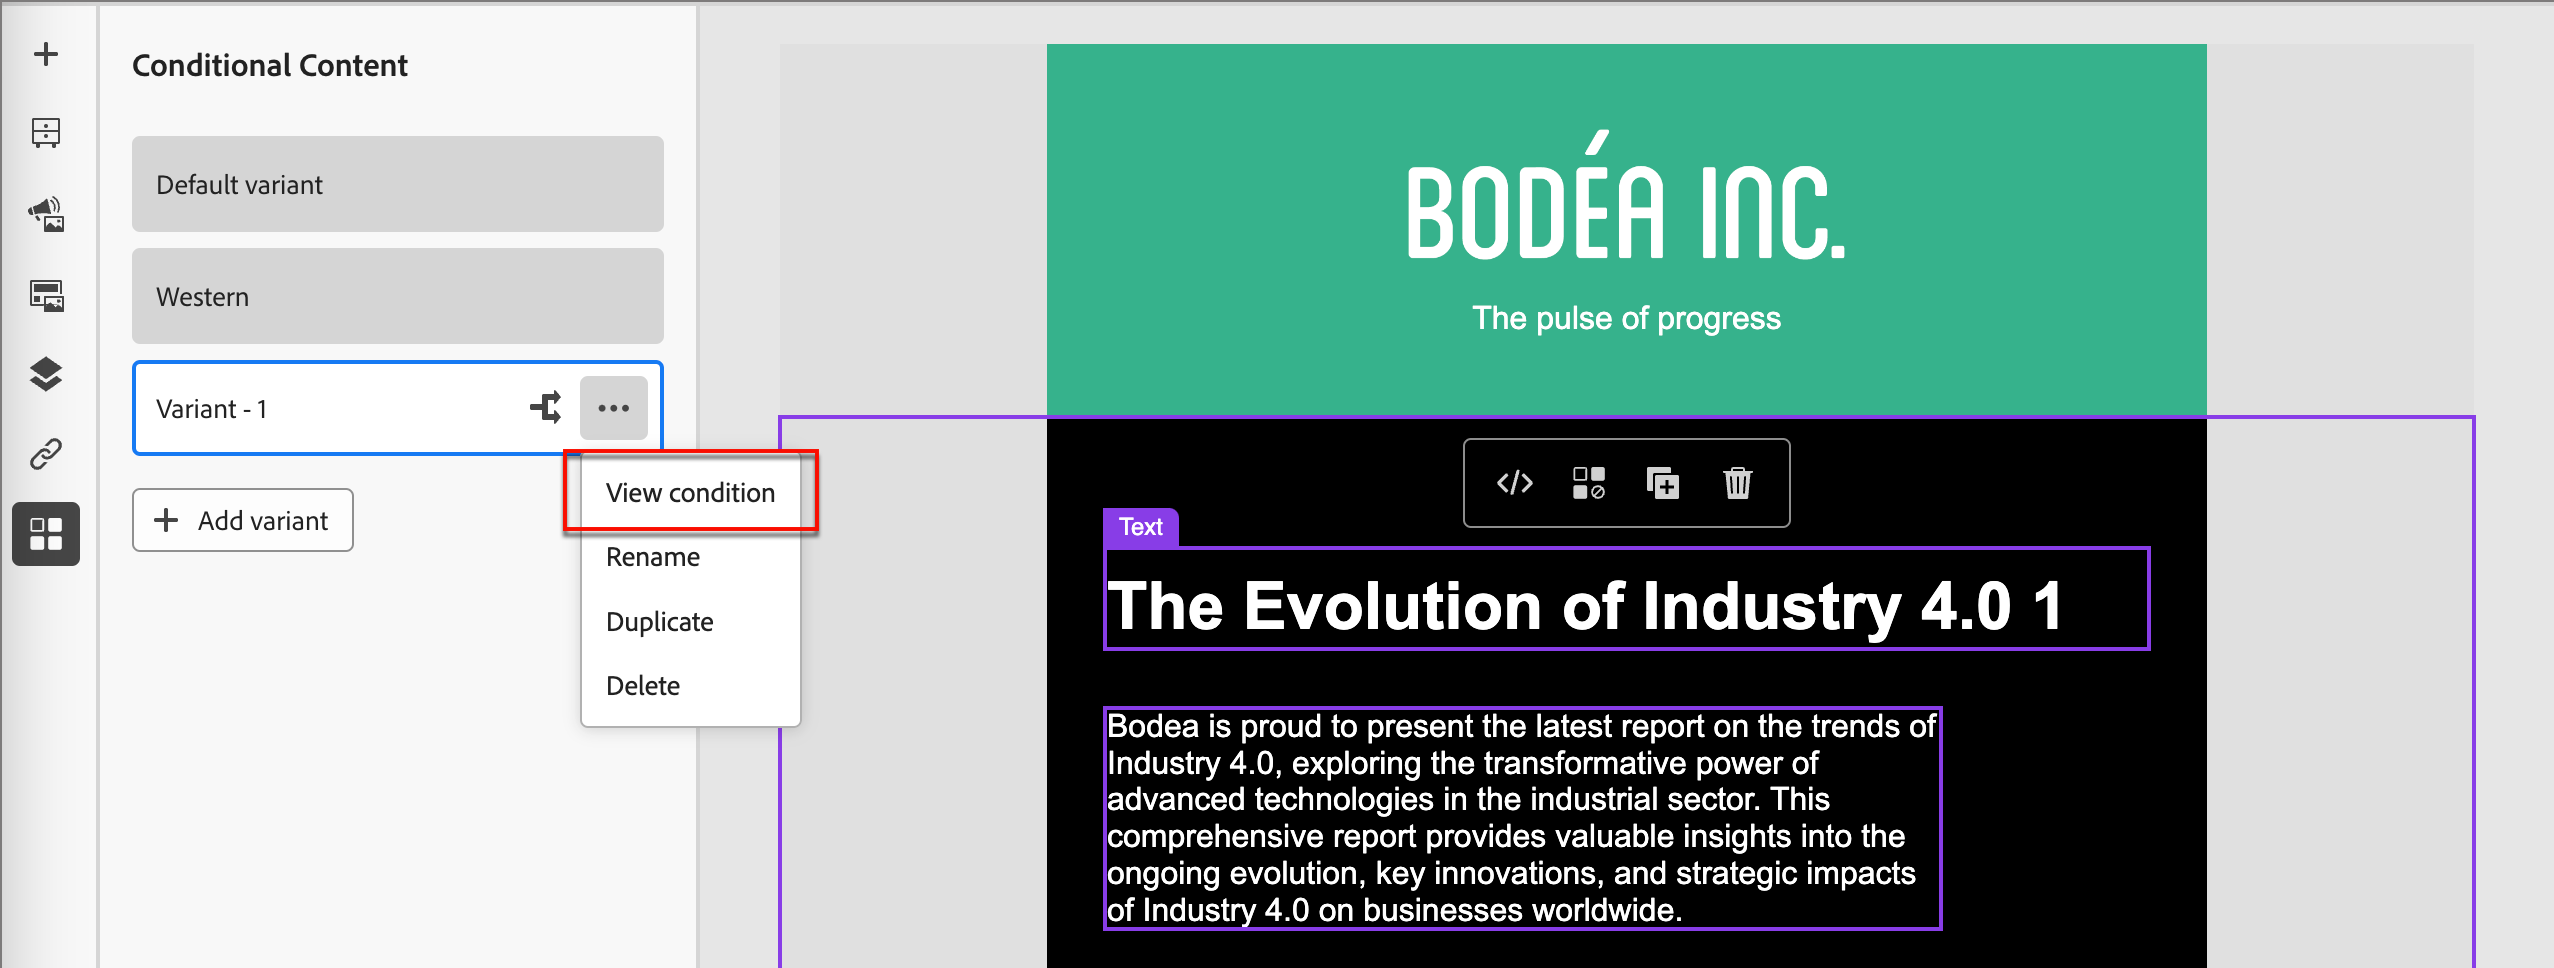
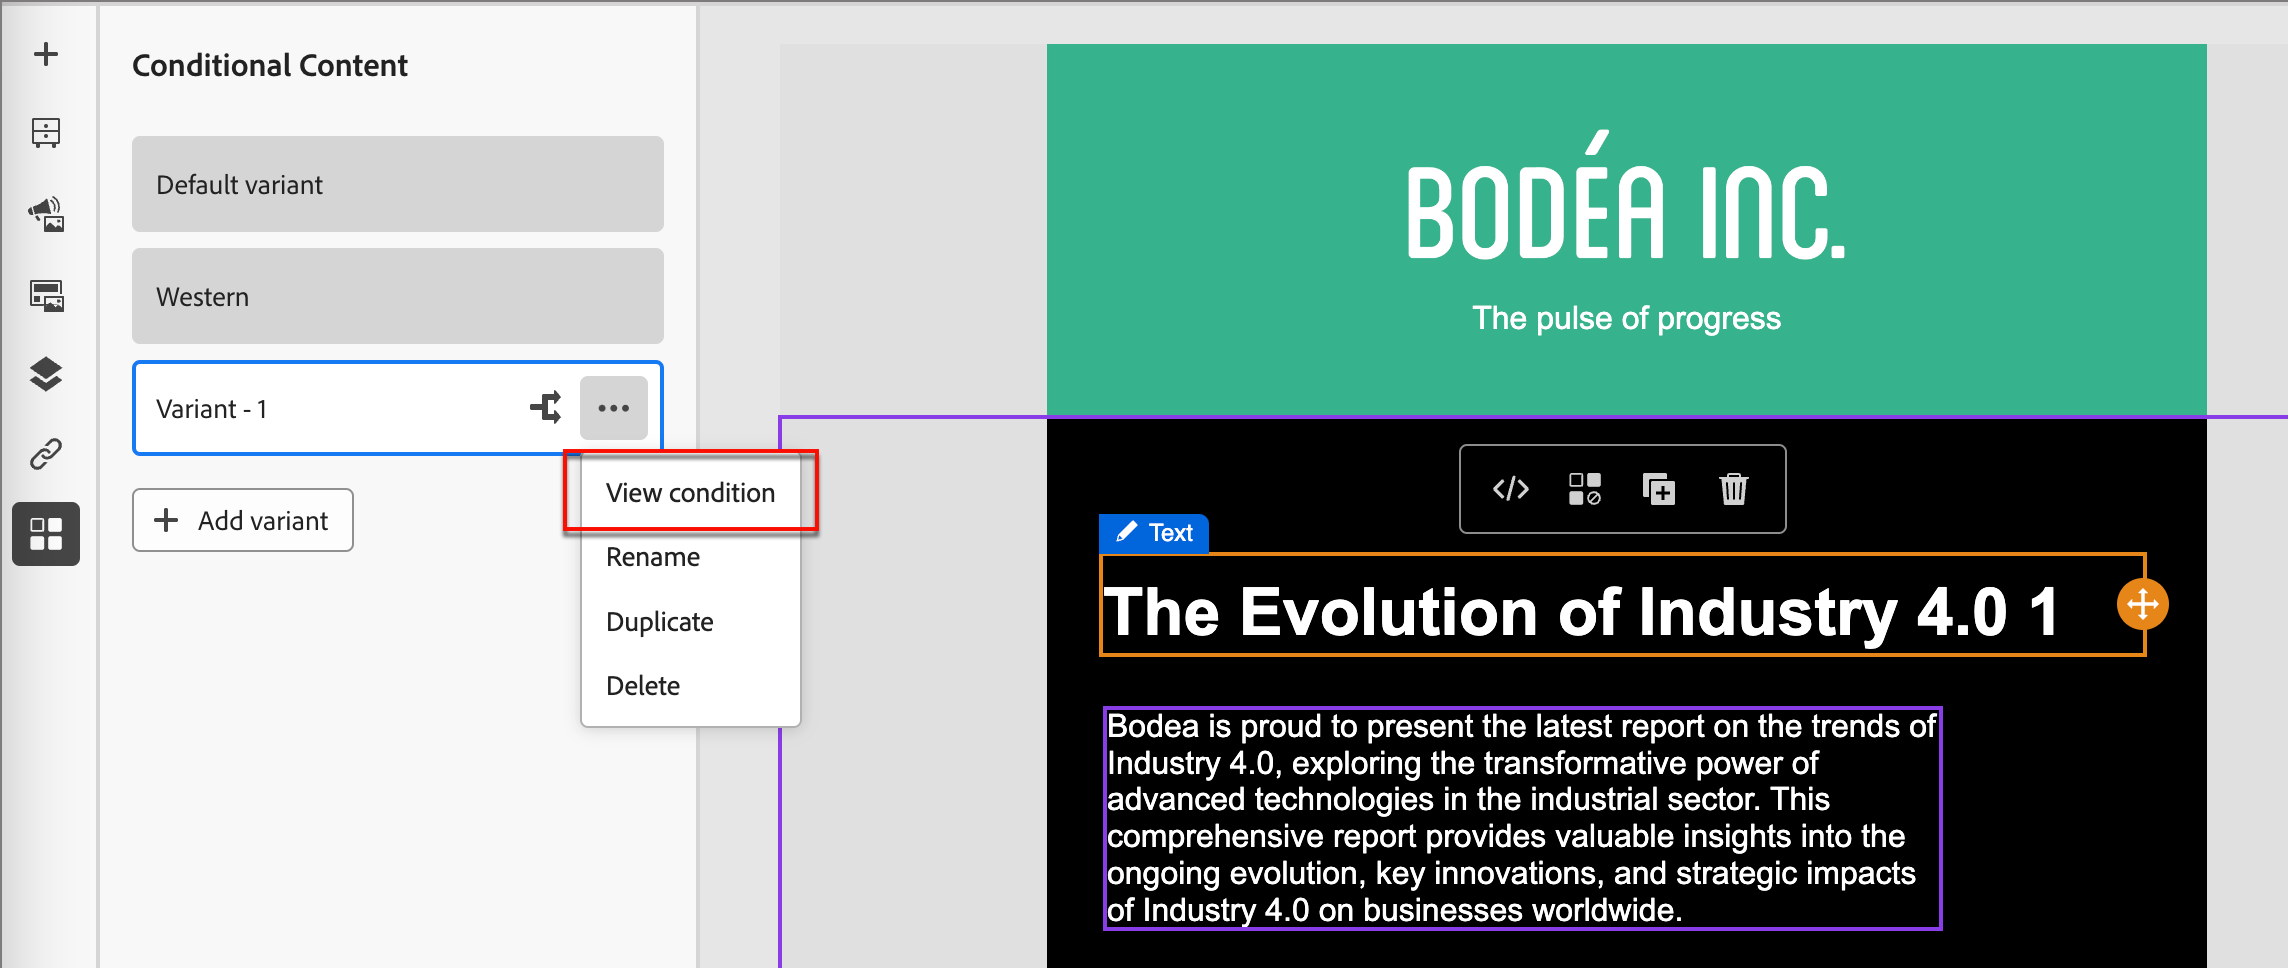
SPHR-9821, Adjust images and minor edits

diff --git a/help/user/content/conditional-content.md b/help/user/content/conditional-content.md
@@ -1,13 +1,13 @@
 ---
 title: Conditional content
-description: Learn how to create content variations and apply conditional rules when authoring email content.
+description: Learn how to create content variations and apply conditional rules when authoring email content for account journeys.
 feature: Email Authoring, Content
 ---
 # Conditional content
 
 Conditional content allows you to adapt the email content based on conditional rules. These rules are defined using profile attributes or contextual events. You can create conditional rules in the rule builder, and you can store them for reuse across your account journeys.
 
-To add conditional content into your email messages, Adobe Journey Optimizer allows you to apply conditional rules that are stored in the _Conditions_ library. Apply conditional rules within the email designer as you author an email within an account journey.
+To add conditional content into your email messages, Adobe Journey Optimizer allows you to apply conditional rules that are stored in the _Conditions_ library. Apply conditional rules within the email designer as you [author an email within an account journey](./email-authoring.md).
 
 ## Add conditional content to emails {#email-content}
 
@@ -21,15 +21,13 @@ To add conditional content into your email messages, Adobe Journey Optimizer all
 >title="Conditional content"
 >abstract="Use a conditional rule saved into the library or create a new one."
 
-As you author an email for your account journey, use conditional rules to define multiple variants for a content component.
-
-To create content component variants in the email designer:
+As you author an email for your account journey in the email designer, use conditional rules to define multiple variants for a content component.
 
 1. Select a content component and click the **[!UICONTROL Enable conditional content]** icon in the component toolbar.
 
     The component is outlined in orange to indicate that it is activated as a conditional component. The **[!UICONTROL Conditional Content]** pane displays on the left with the _Default variant_ and _Variant - 1.
 
-    ![Enable conditional content for the text component](./assets/conditions-enable.png){width="800" zoomable="yes"}
+    ![Enable conditional content for the text component](./assets/conditions-enable.png){width="700" zoomable="yes"}
     
     The original content you selected and activated is the default and applies when none of the conditional rules are not satisfied for any of the variants that you define.
     
@@ -37,7 +35,7 @@ To create content component variants in the email designer:
 
 1. Hover over the first variant (_Variant - 1_) and click the _Select condition_ icon ( ![Condition icon](../assets/do-not-localize/icon-select-condition.svg) ).
 
-   ![Select condition for variant](./assets/conditions-variant-select.png){width="800" zoomable="yes"}
+   ![Select condition for variant](./assets/conditions-variant-select.png){width="700" zoomable="yes"}
 
    The _[!UICONTROL Select condition]_ dialog opens and displays the conditions library.
 
@@ -78,7 +76,7 @@ To create content component variants in the email designer:
     >[!IMPORTANT]
     >
     >Conditional content is evaluated against associated rules in the order in which the variants are listed. The first variant with a condition that evaluates as true is used for the component.
-    ><br/>
+    >
     >If none of the defined variant conditions evaluates as true when sending the email, the content component appears according to the **[!UICONTROL Default variant]**.
 
 1. To delete a variant, click the _More menu_ icon (**...**) for the variant and choose **[!UICONTROL Delete]**.
@@ -148,5 +146,3 @@ Conditional rules saved to the library cannot be modified. However, you can dupl
 1. Change the name and description to match the purpose or items in the rule.
 
 1. When your conditional rule is complete, click **[!UICONTROL Save]**.
-
-

diff --git a/help/user/TOC.md b/help/user/TOC.md
@@ -25,10 +25,12 @@ user-guide-description: Learn about Adobe Journey Optimizer B2B Edition and how 
     + [Overview](./journeys/journey-overview.md)
     + [Account journey nodes](./journeys/journey-nodes.md)
 + Journey content {#journey-content}
-    + [Email authoring](./content/email-authoring.md)
-    + [AI Assistant for email authoring](./content/ai-assistant-emails.md)
-    + [Dynamic content](./content/conditional-content.md)
-    + [Sales alert email](./content/sales-alert-email.md)
+    + Email channel {#email-channel}
+       + [Email authoring](./content/email-authoring.md)
+       + [AI Assistant for email authoring](./content/ai-assistant-emails.md)
+       + [Conditional content](./content/conditional-content.md)
+       + [Governed templates](./content/email-authoring-governance.md)
+       + [Sales alert email](./content/sales-alert-email.md)
     + [SMS authoring](./content/sms-authoring.md)
 + Content management {#content-management}
    + Assets {#assets}
